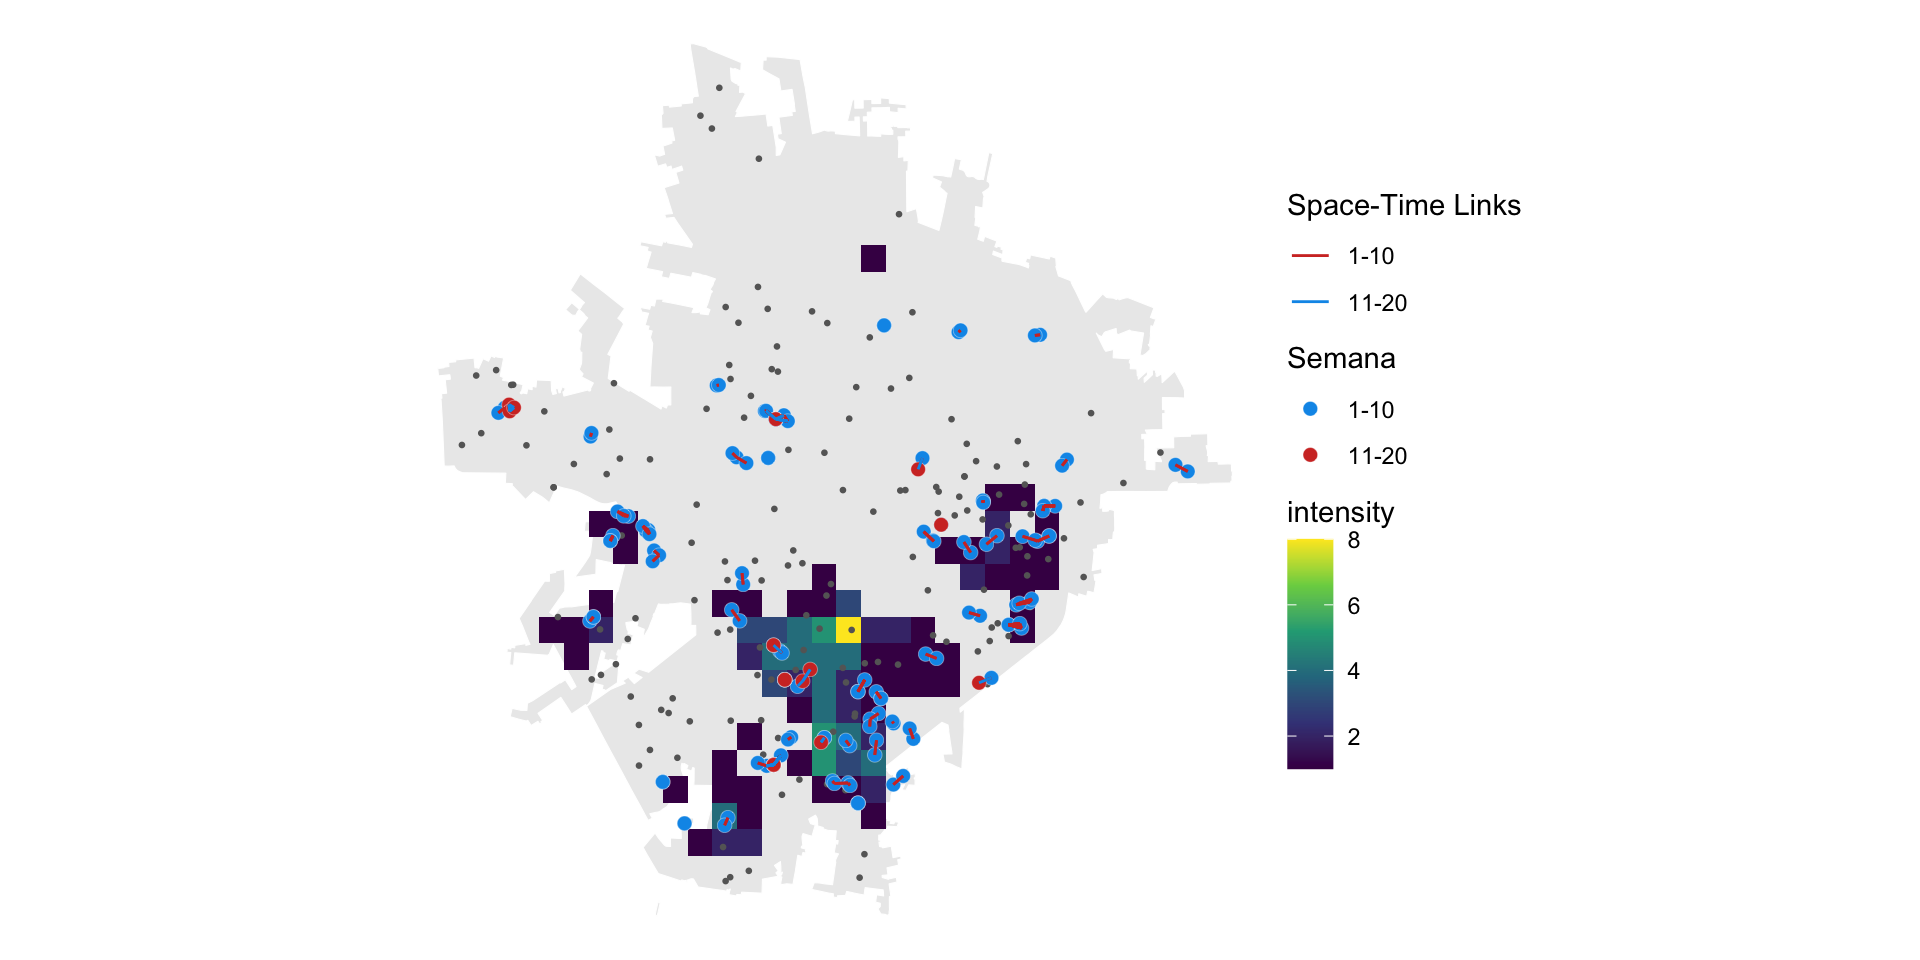
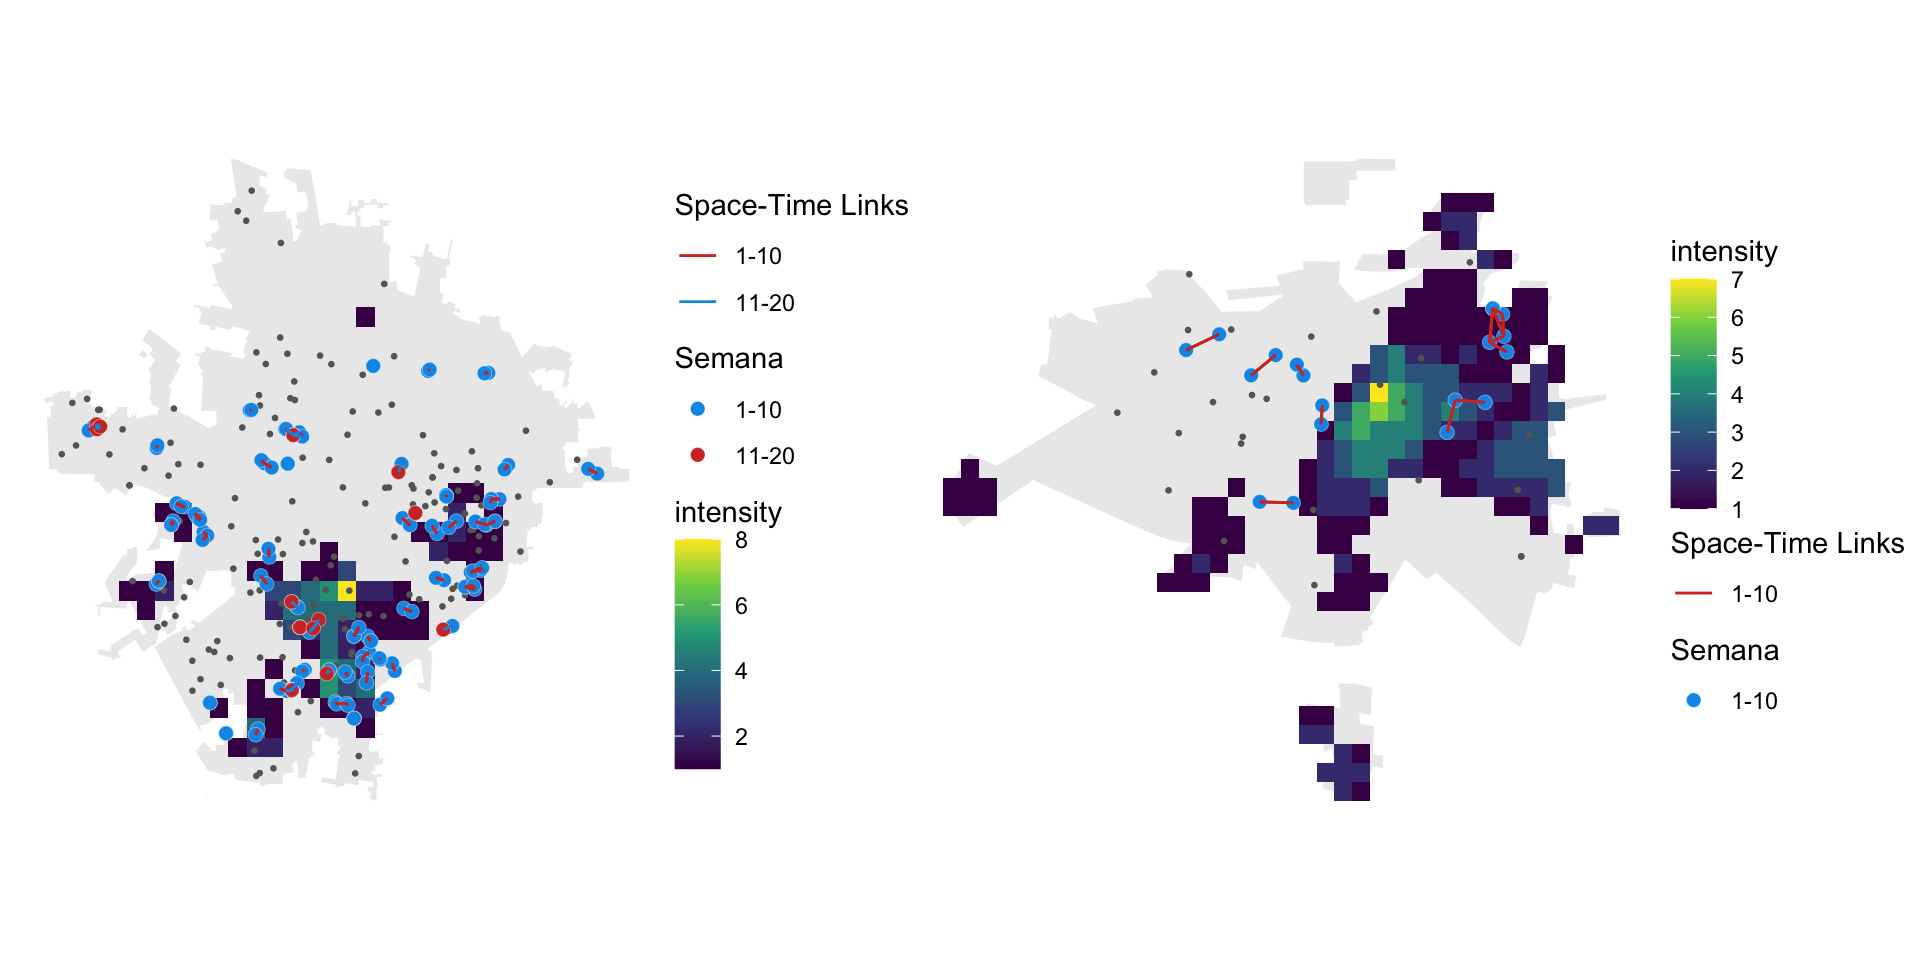
This commit updat the talk

diff --git a/reunion_quintana_roo/index.html b/reunion_quintana_roo/index.html
@@ -574,21 +574,9 @@ Jorge Palacios
 <section id="escenarios-de-la-transmisión-activa" class="slide level2">
 <h2><span style="color:#003300">Escenarios de la Transmisión Activa</span></h2>
 <hr style="height:2px;border-width:0;color:#330019;background-color:#330019">
-<div class="columns">
-<div class="column" style="width:50%;">
-<p>Mérida</p>
 <div class="cell">
 <div class="cell-output-display">
 <p><img data-src="index_files/figure-revealjs/risk_escenario_actual_merida2-1.png" style="width:100.0%;height:100.0%"></p>
-</div>
-</div>
-</div><div class="column" height="100%" style="width:50%;">
-<p>Valladolid</p>
-<div class="cell">
-<div class="cell-output-display">
-<p><img data-src="index_files/figure-revealjs/risk_escenario_actual_valladolid2-1.png" style="width:110.0%;height:110.0%"></p>
-</div>
-</div>
 </div>
 </div>
 </section>
